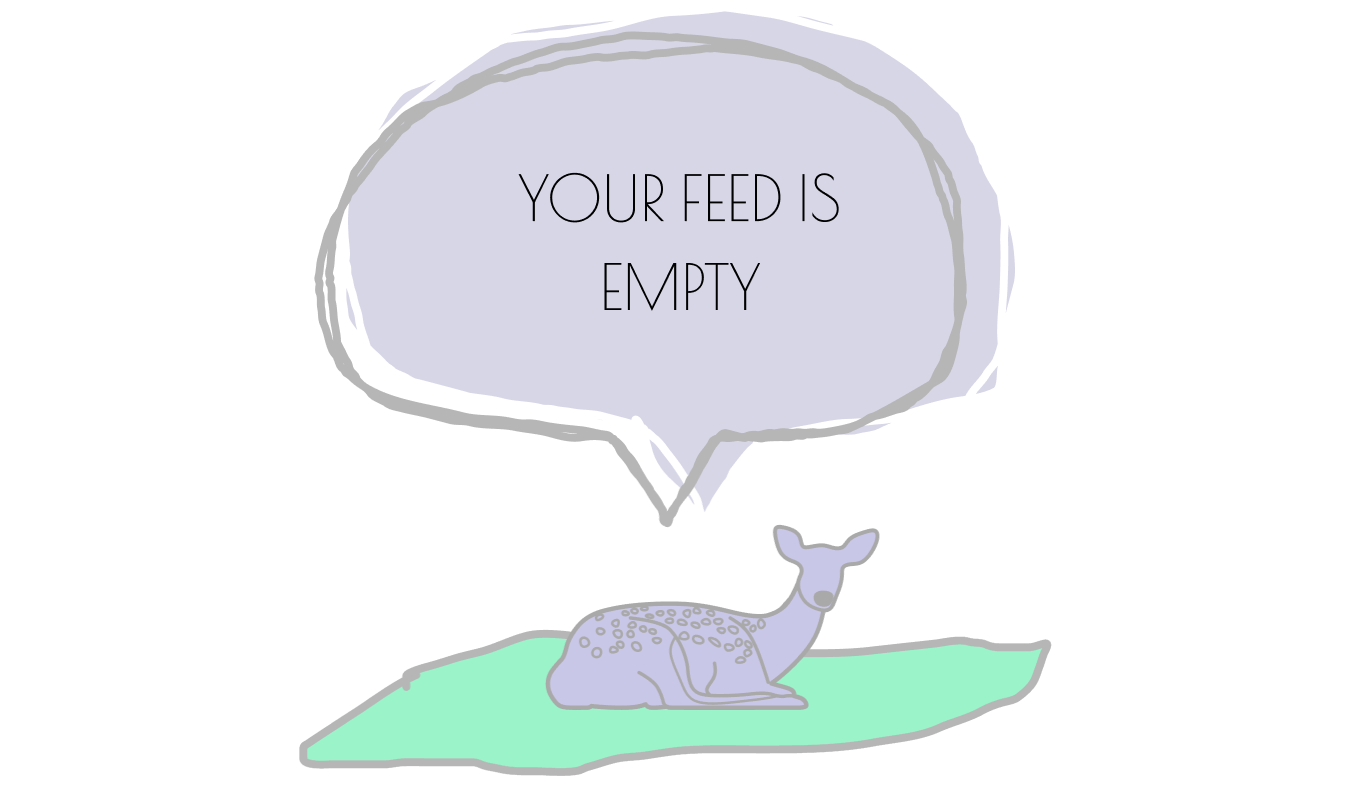
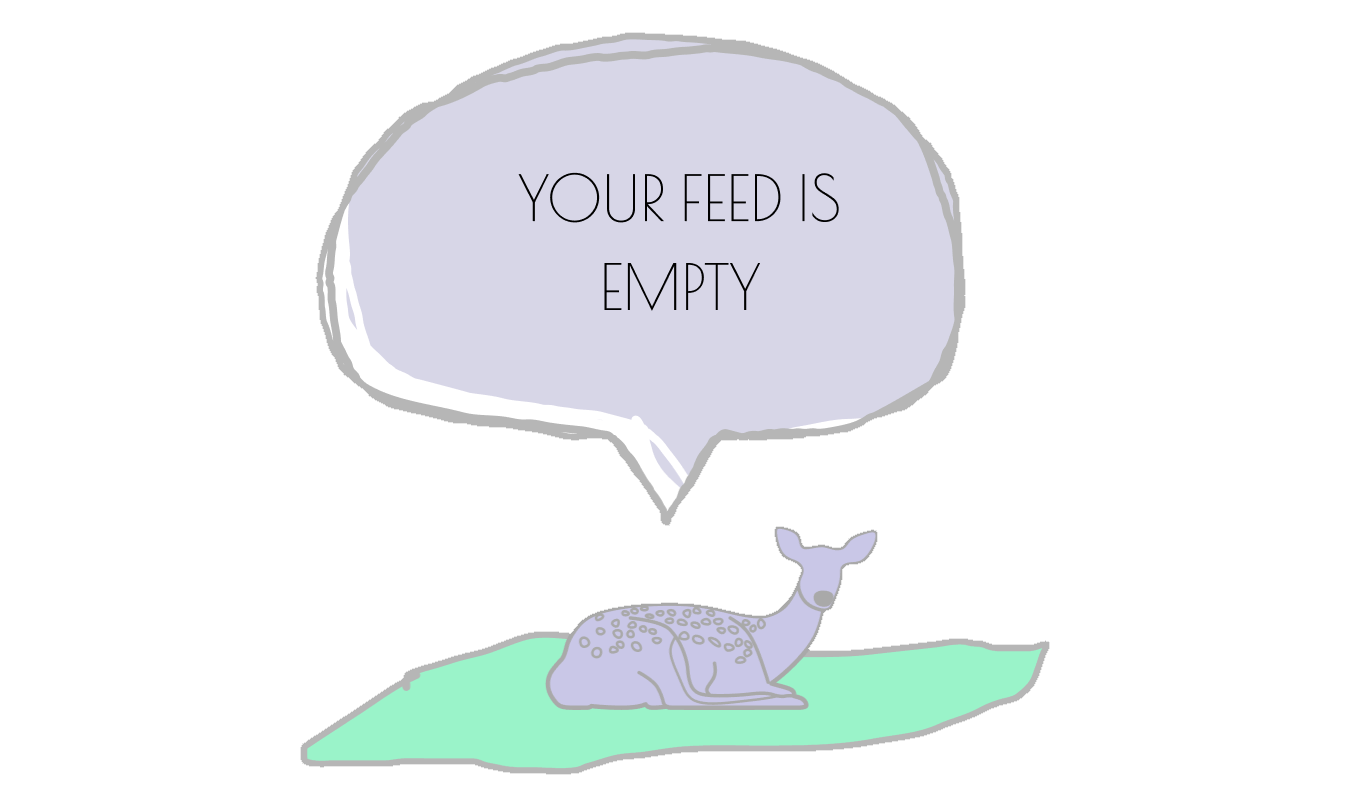
dark mode image correction

diff --git a/lib/widgets/helpers/error.dart b/lib/widgets/helpers/error.dart
@@ -19,8 +19,10 @@ class Error extends StatelessWidget {
       crossAxisAlignment: CrossAxisAlignment.stretch,
       mainAxisAlignment: MainAxisAlignment.center,
       children: [
-        const Image(
-          image: AssetImage('assets/illustrations/deer.png'),
+        Image(
+          image: Theme.of(context).brightness == Brightness.dark
+              ? AssetImage('assets/illustrations/Dark_deer.png')
+              : AssetImage('assets/illustrations/deer.png'),
           height: 250,
           width: 250,
         ),

diff --git a/lib/screens/a-gate/courseFeedback.dart/searchCourseFb.dart b/lib/screens/a-gate/courseFeedback.dart/searchCourseFb.dart
@@ -41,7 +41,7 @@ class _SearchCourseState extends State<SearchCourseFb> {
         floatHeaderSlivers: true,
         headerSliverBuilder: (BuildContext context, bool innerBoxScrolled) {
           return <Widget>[
-            secondaryAppBar(title: 'SEARCH COURSE '),
+            secondaryAppBar(title: 'SEARCH COURSE ', context: context),
             SliverList(
               delegate: SliverChildListDelegate([
                 const SizedBox(height: 15),
